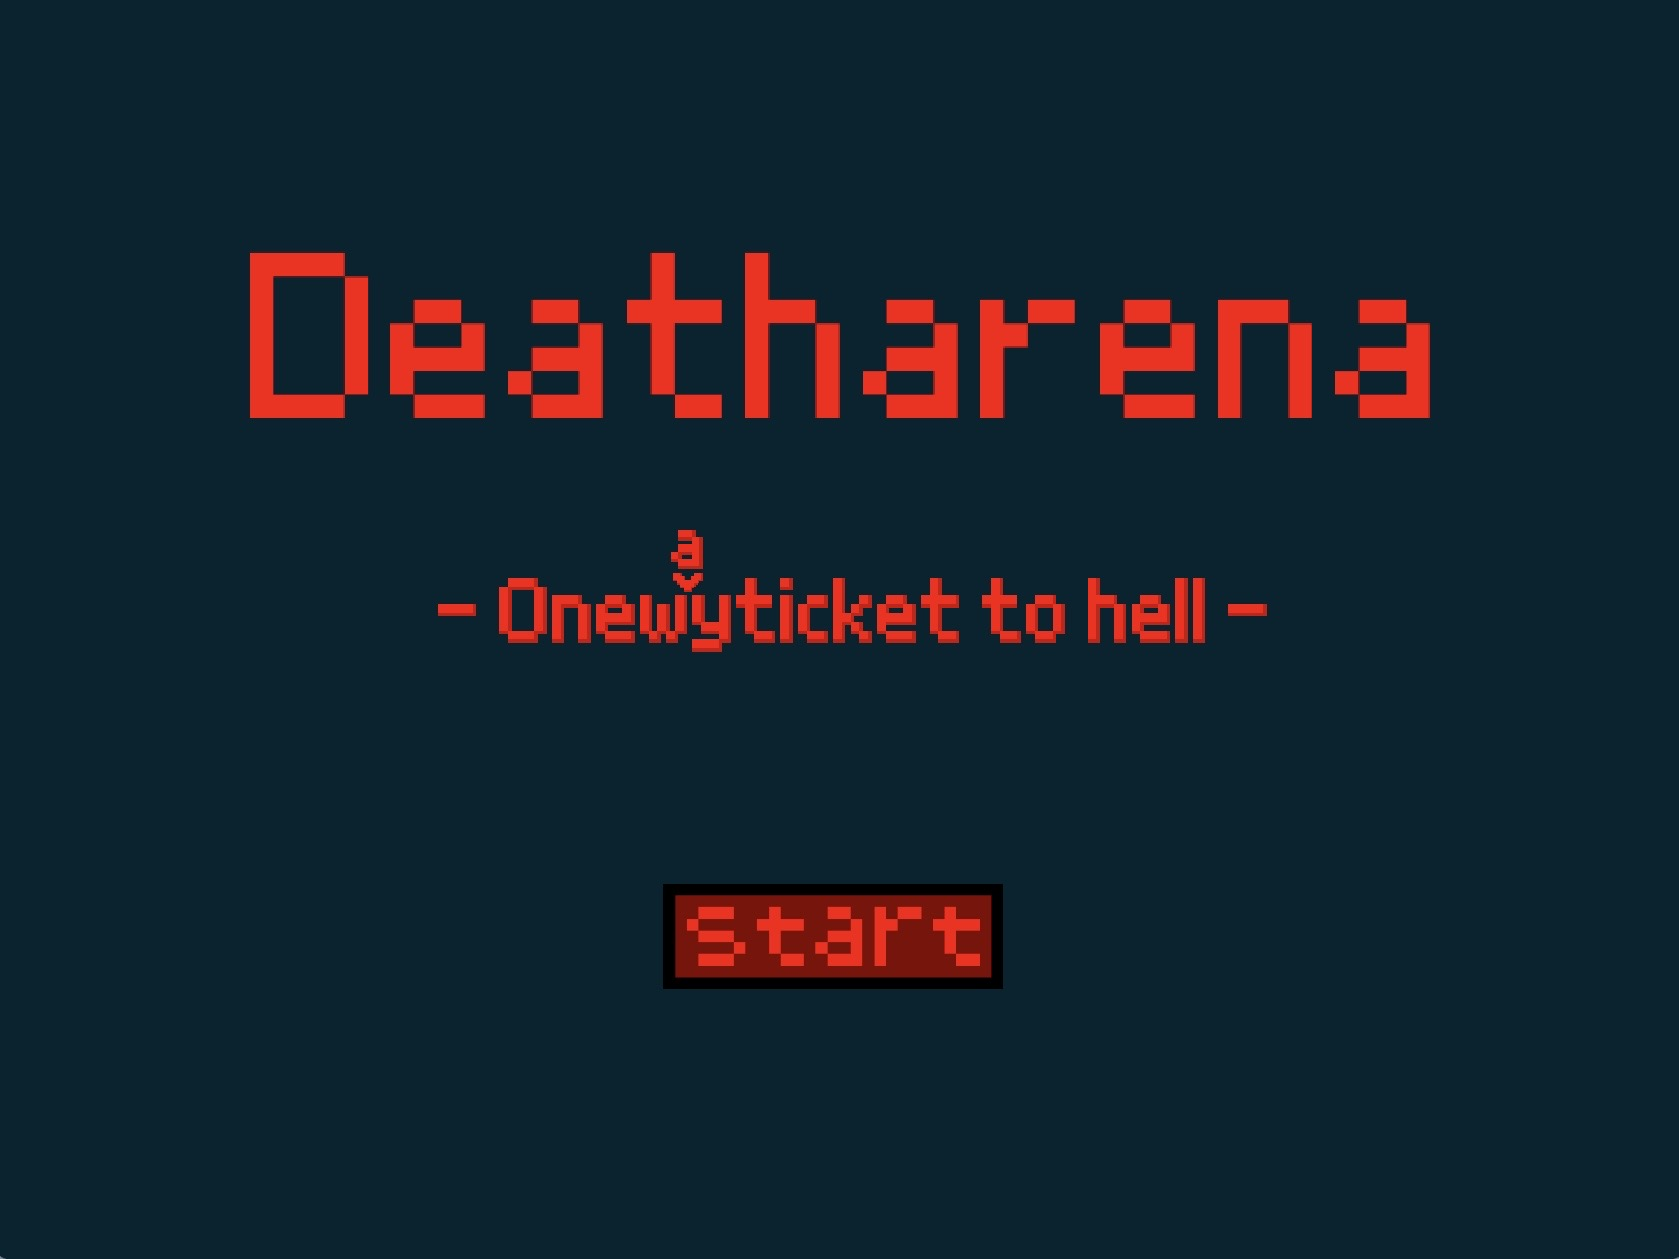
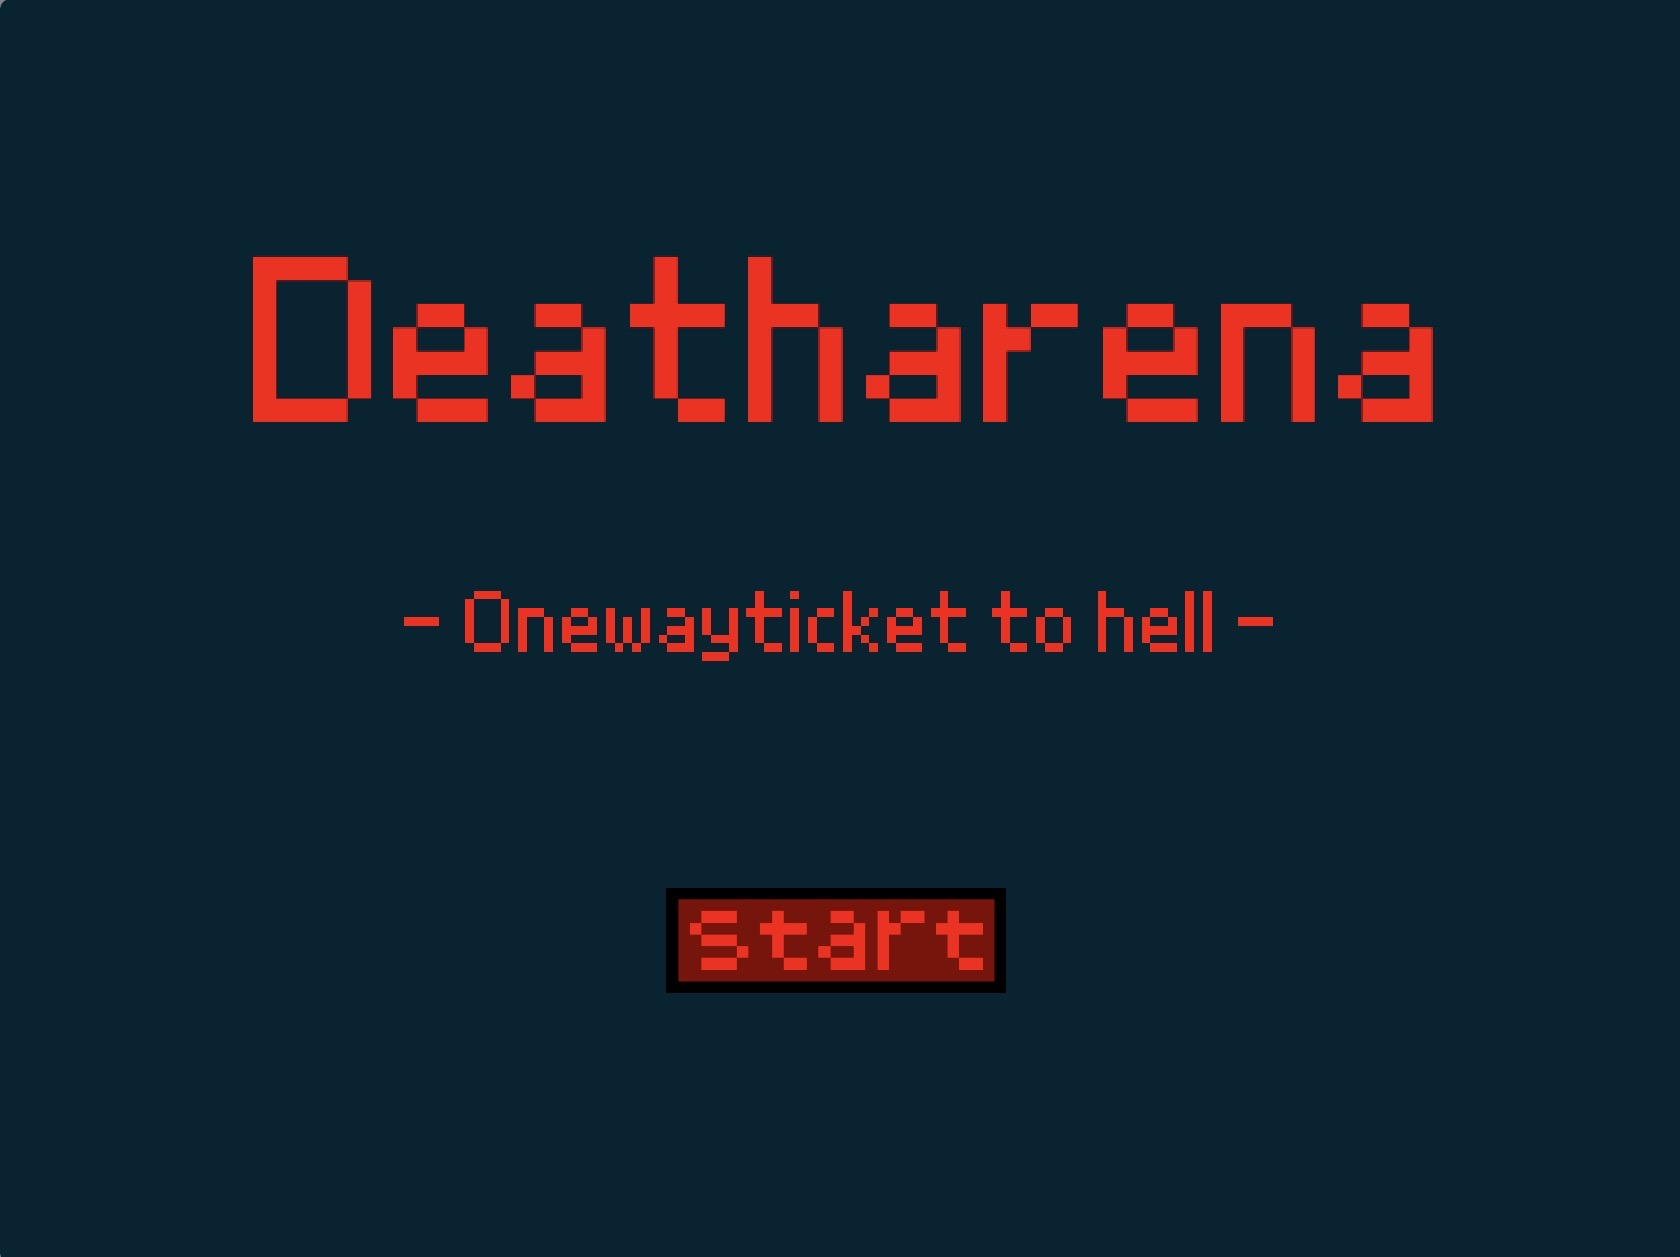
Frist game added and layout plished

Changed region(s): [[0.1549, 0.1862, 0.8672, 0.3413], [0.2478, 0.4033, 0.7743, 0.5274], [0.4026, 0.6826, 0.6194, 0.8067]]

diff --git a/components/hero.tsx b/components/hero.tsx
@@ -4,12 +4,6 @@ import Link from "next/link";
 import { m } from "framer-motion";
 import { staggerContainer, staggerItem } from "@/lib/motion";
 
-const stats = [
-  { icon: "🎮", label: "Games", value: "10+" },
-  { icon: "🌍", label: "Platform", value: "Browser" },
-  { icon: "🎉", label: "Price", value: "Free" },
-] as const;
-
 export function Hero() {
   return (
     <section className="relative isolate overflow-hidden border-b border-border-subtle/40 bg-surface">
@@ -30,36 +24,23 @@ export function Hero() {
         initial="initial"
         animate="animate"
       >
-        <m.span
-          variants={staggerItem}
-          className="mb-8 inline-flex items-center gap-2.5 rounded-full border border-accent/25 bg-accent/10 px-4 py-2 text-xs font-semibold tracking-wide text-violet-300 backdrop-blur-sm"
-        >
-          <span className="relative flex h-2 w-2">
-            <span className="absolute inline-flex h-full w-full animate-ping rounded-full bg-violet-400 opacity-75" />
-            <span className="relative inline-flex h-2 w-2 rounded-full bg-violet-400" />
-          </span>
-          New games dropping soon
-        </m.span>
-
         <m.h1
           variants={staggerItem}
-          className="font-display max-w-4xl text-4xl font-extrabold leading-[1.05] tracking-tight sm:text-6xl lg:text-7xl"
+          className="font-display flex w-full max-w-4xl flex-col items-center gap-2 leading-[1.05] tracking-tight"
         >
-          <span className="bg-gradient-to-b from-white via-zinc-100 to-zinc-500 bg-clip-text text-transparent">
-            Play Amazing
-          </span>
-          <br />
-          <span className="bg-gradient-to-r from-violet-400 via-fuchsia-400 to-amber-300 bg-clip-text text-transparent">
+          <span className="bg-gradient-to-r from-violet-400 via-fuchsia-400 to-amber-300 bg-clip-text text-[clamp(2.5rem,8vw,4.25rem)] font-extrabold text-transparent">
             Holiday Games
+          </span>
+          <span className="bg-gradient-to-b from-white via-zinc-100 to-zinc-500 bg-clip-text text-[clamp(1.35rem,4.65vw,2.5rem)] font-normal text-transparent">
+            Work Hard, Game Hard
           </span>
         </m.h1>
 
         <m.p
           variants={staggerItem}
-          className="mx-auto mt-7 max-w-xl text-lg leading-relaxed text-zinc-400 sm:text-xl sm:leading-relaxed"
+          className="mx-auto mt-7 w-4/5 max-w-[28.8rem] text-lg leading-relaxed text-zinc-400 sm:text-xl sm:leading-relaxed"
         >
-          Hand-crafted browser games built for cozy nights, holiday vibes, and
-          one-more-run fun.
+          Hand-crafted browser games built for fun and to learn the art of coding
         </m.p>
 
         <m.div
@@ -98,28 +79,6 @@ export function Hero() {
               Learn More
             </Link>
           </m.div>
-        </m.div>
-
-        <m.div
-          variants={staggerItem}
-          className="mt-20 grid w-full max-w-lg grid-cols-1 gap-8 border-t border-border-subtle/50 pt-10 sm:grid-cols-3 sm:gap-4"
-        >
-          {stats.map((stat) => (
-            <m.div
-              key={stat.label}
-              className="flex flex-col items-center gap-1.5"
-              whileHover={{ y: -2 }}
-              transition={{ type: "spring", stiffness: 400, damping: 25 }}
-            >
-              <span className="text-xl" aria-hidden>
-                {stat.icon}
-              </span>
-              <span className="font-display text-lg font-bold text-zinc-100">
-                {stat.value}
-              </span>
-              <span className="text-sm text-zinc-500">{stat.label}</span>
-            </m.div>
-          ))}
         </m.div>
       </m.div>
     </section>

diff --git a/components/game-detail.tsx b/components/game-detail.tsx
@@ -5,6 +5,7 @@ import type { Game } from "@/types/game";
 import { staggerContainer, staggerItem } from "@/lib/motion";
 import { cn, formatGameType } from "@/lib/utils";
 import { GameDetailGallery } from "@/components/game-detail-gallery";
+import { GameDetailSectionHeading } from "@/components/game-detail-section-heading";
 import { resolveGameCarouselImages } from "@/lib/game-assets";
 
 interface GameDetailProps {
@@ -40,51 +41,38 @@ export function GameDetail({ game, onPlayNow, canPlay }: GameDetailProps) {
         initial="initial"
         animate="animate"
       >
-        <div className="grid gap-10 lg:grid-cols-5 lg:gap-12">
+        <div className="grid gap-8 lg:grid-cols-5 lg:gap-12">
           <m.div variants={staggerItem} className="lg:col-span-3">
             <GameDetailGallery images={galleryImages} title={game.title} />
           </m.div>
 
           <m.aside
             variants={staggerItem}
-            className="flex flex-col gap-7 lg:col-span-2"
+            className="flex w-full flex-col gap-6 lg:col-span-2"
           >
             {game.status !== "available" && (
               <StatusBadge status={game.status} />
             )}
 
-            <h1 className="font-display text-3xl font-extrabold tracking-tight text-zinc-50 sm:text-4xl lg:text-[2.75rem] lg:leading-tight">
+            <h1 className="font-display text-3xl font-extrabold leading-tight tracking-tight text-zinc-50 sm:text-4xl lg:text-[2.75rem]">
               {game.title}
             </h1>
 
             <SpecsCard game={game} />
 
-            <div className="flex justify-center">
+            <div className="flex w-full justify-center">
               <m.button
                 type="button"
                 disabled={!canPlay}
                 onClick={onPlayNow}
                 whileHover={canPlay ? { scale: 1.02 } : undefined}
                 whileTap={canPlay ? { scale: 0.98 } : undefined}
-                className="inline-flex h-12 w-fit max-w-full items-center justify-center gap-2 rounded-xl bg-accent px-6 text-base font-bold text-white btn-glow disabled:cursor-not-allowed disabled:opacity-50 disabled:shadow-none sm:h-14 sm:gap-3 sm:px-8 sm:text-lg sm:min-w-[220px]"
+                className="mx-auto inline-flex h-12 w-full max-w-xs items-center justify-center gap-2 rounded-xl bg-accent px-6 text-base font-bold text-white btn-glow disabled:cursor-not-allowed disabled:opacity-50 disabled:shadow-none sm:h-14 sm:w-auto sm:max-w-none sm:min-w-[220px] sm:gap-3 sm:px-8 sm:text-lg"
               >
                 <PlayIcon />
                 {playLabel}
               </m.button>
             </div>
-
-            {game.tags.length > 0 && (
-              <div className="flex flex-wrap gap-2">
-                {game.tags.map((tag) => (
-                  <span
-                    key={tag}
-                    className="rounded-full border border-border-subtle/80 bg-surface-elevated/60 px-3 py-1 text-xs font-medium text-zinc-400"
-                  >
-                    {tag}
-                  </span>
-                ))}
-              </div>
-            )}
           </m.aside>
         </div>
 
@@ -92,9 +80,7 @@ export function GameDetail({ game, onPlayNow, canPlay }: GameDetailProps) {
           variants={staggerItem}
           className="mt-10 rounded-2xl border border-border-subtle/80 bg-surface/50 p-7 backdrop-blur-sm sm:mt-12 sm:p-9 lg:mt-14"
         >
-          <h2 className="mb-5 font-display text-sm font-semibold uppercase tracking-[0.2em] text-violet-400">
-            About this game
-          </h2>
+          <GameDetailSectionHeading>About this game</GameDetailSectionHeading>
           <p className="text-base leading-[1.75] text-zinc-300 sm:text-lg sm:leading-[1.8]">
             {game.longDescription}
           </p>
@@ -107,7 +93,9 @@ export function GameDetail({ game, onPlayNow, canPlay }: GameDetailProps) {
 function SpecsCard({ game }: { game: Game }) {
   const specs = [
     { label: "Genre", value: game.genre },
+    { label: "Subgenre", value: game.subgenre },
     { label: "Players", value: game.players },
+    { label: "Developer", value: game.developer },
     { label: "Game type", value: formatGameType(game.gameType) },
   ];
 
@@ -122,7 +110,7 @@ function SpecsCard({ game }: { game: Game }) {
           <dd
             className={cn(
               "text-right text-sm font-semibold text-zinc-100",
-              label === "Genre" && "capitalize",
+              (label === "Genre" || label === "Subgenre") && "capitalize",
             )}
           >
             {value}

diff --git a/components/game-detail-section-heading.tsx b/components/game-detail-section-heading.tsx
@@ -1,0 +1,23 @@
+import { cn } from "@/lib/utils";
+
+interface GameDetailSectionHeadingProps {
+  children: React.ReactNode;
+  className?: string;
+}
+
+/** Eyebrow heading shared by detail + play sections (spacing matches on all breakpoints). */
+export function GameDetailSectionHeading({
+  children,
+  className,
+}: GameDetailSectionHeadingProps) {
+  return (
+    <h2
+      className={cn(
+        "mb-5 font-display text-sm font-semibold uppercase leading-snug tracking-[0.2em] text-violet-400",
+        className,
+      )}
+    >
+      {children}
+    </h2>
+  );
+}

diff --git a/components/footer.tsx b/components/footer.tsx
@@ -20,14 +20,9 @@ export function Footer() {
       transition={{ duration: 0.5, ease: easeOutExpo }}
     >
       <div className="mx-auto flex max-w-6xl flex-col items-center gap-8 px-4 py-12 sm:flex-row sm:justify-between sm:px-6 sm:py-14">
-        <div className="flex items-center gap-2.5">
-          <span className="text-xl" aria-hidden>
-            🎄
-          </span>
-          <span className="font-display bg-gradient-to-r from-violet-400 to-fuchsia-400 bg-clip-text text-sm font-bold tracking-tight text-transparent">
-            Holiday Games
-          </span>
-        </div>
+        <span className="font-display bg-gradient-to-r from-violet-400 to-fuchsia-400 bg-clip-text text-sm font-bold tracking-tight text-transparent">
+          Holiday Games
+        </span>
 
         <nav className="flex flex-wrap items-center justify-center gap-6 text-sm">
           {footerLinks.map(({ label, href }) => (

diff --git a/components/game-player.tsx b/components/game-player.tsx
@@ -239,7 +239,7 @@ function IdleOverlay({
   onPlay: () => void;
 }) {
   return (
-    <div className="absolute inset-0 flex flex-col items-center justify-center gap-5 bg-gradient-to-br from-surface via-surface-elevated to-violet-950/30 p-6 text-center">
+    <div className="absolute inset-0 flex w-full flex-col items-center justify-center gap-4 bg-gradient-to-br from-surface via-surface-elevated to-violet-950/30 p-6 text-center">
       <div
         aria-hidden
         className="pointer-events-none absolute inset-0 bg-[linear-gradient(rgba(255,255,255,.03)_1px,transparent_1px),linear-gradient(90deg,rgba(255,255,255,.03)_1px,transparent_1px)] bg-[size:48px_48px]"
@@ -253,16 +253,18 @@ function IdleOverlay({
         </>
       ) : (
         <>
-          <p className="relative text-sm font-medium text-zinc-500">
+          <p className="relative text-sm font-medium leading-snug text-zinc-500">
             Ready to play
           </p>
-          <p className="relative text-xl font-bold text-zinc-100">{title}</p>
+          <p className="relative text-xl font-bold leading-tight text-zinc-100">
+            {title}
+          </p>
           <m.button
             type="button"
             onClick={onPlay}
             whileHover={{ scale: 1.03 }}
             whileTap={{ scale: 0.97 }}
-            className="relative inline-flex h-14 items-center justify-center gap-3 rounded-xl bg-accent px-10 text-lg font-bold text-white btn-glow"
+            className="relative mx-auto inline-flex h-14 w-full max-w-xs items-center justify-center gap-3 rounded-xl bg-accent px-10 text-lg font-bold text-white btn-glow sm:w-auto sm:max-w-none"
           >
             <PlayIcon />
             Play Now

diff --git a/components/header.tsx b/components/header.tsx
@@ -13,15 +13,7 @@ export function Header() {
       transition={{ duration: 0.45, ease: [0.22, 1, 0.36, 1] }}
     >
       <div className="mx-auto flex h-16 max-w-6xl items-center justify-between gap-4 px-4 sm:h-[4.25rem] sm:px-6">
-        <Link href="/" className="group flex items-center gap-2.5">
-          <m.span
-            className="text-2xl"
-            aria-hidden
-            whileHover={{ rotate: [-3, 3, 0], scale: 1.1 }}
-            transition={{ duration: 0.4 }}
-          >
-            🎄
-          </m.span>
+        <Link href="/" className="group flex items-center">
           <span className="font-display bg-gradient-to-r from-violet-400 to-fuchsia-400 bg-clip-text text-lg font-bold tracking-tight text-transparent transition-opacity group-hover:opacity-90">
             Holiday Games
           </span>

diff --git a/components/game-card.tsx b/components/game-card.tsx
@@ -77,11 +77,16 @@ export function GameCard({ game, index = 0 }: GameCardProps) {
       </div>
 
       <div className="flex flex-1 flex-col gap-4 p-5 sm:p-6">
-        <div className="flex items-center gap-2 text-xs">
+        <div className="flex flex-wrap items-center gap-2 text-xs">
           <span className="rounded-full border border-accent/20 bg-accent/10 px-2.5 py-0.5 font-semibold capitalize text-violet-300">
             {game.genre}
           </span>
-          <span className="text-zinc-500">{game.players}</span>
+          <span className="rounded-full border border-border-subtle/80 bg-surface-elevated/60 px-2.5 py-0.5 font-medium capitalize text-zinc-400">
+            {game.subgenre}
+          </span>
+          <span className="rounded-full border border-border-subtle/80 bg-surface-elevated/60 px-2.5 py-0.5 font-medium text-zinc-400">
+            {game.players}
+          </span>
         </div>
 
         <h3 className="font-display text-lg font-bold leading-snug text-zinc-100 transition-colors duration-200 group-hover:text-white sm:text-xl">

diff --git a/components/game-play-section.tsx b/components/game-play-section.tsx
@@ -2,6 +2,7 @@
 
 import { m } from "framer-motion";
 import type { Game } from "@/types/game";
+import { GameDetailSectionHeading } from "@/components/game-detail-section-heading";
 import { easeOutExpo } from "@/lib/motion";
 
 interface GamePlaySectionProps {
@@ -22,9 +23,7 @@ export function GamePlaySection({ game, children }: GamePlaySectionProps) {
         viewport={{ once: true, margin: "-60px" }}
         transition={{ duration: 0.55, ease: easeOutExpo }}
       >
-        <h2 className="mb-8 font-display text-sm font-semibold uppercase tracking-[0.2em] text-violet-400">
-          Play {game.title}
-        </h2>
+        <GameDetailSectionHeading>Play {game.title}</GameDetailSectionHeading>
         {children}
       </m.div>
     </section>

diff --git a/data/games/index.ts b/data/games/index.ts
@@ -12,6 +12,7 @@ const gameEntries: (GameRegistryEntry | Game)[] = [
     genre: "action",
     subgenre: "endless-runner",
     players: "1 player",
+    developer: "Holiday Games",
     description:
       "Race through a winter wonderland dodging obstacles and collecting presents.",
     longDescription:
@@ -43,6 +44,7 @@ const gameEntries: (GameRegistryEntry | Game)[] = [
     genre: "arcade",
     subgenre: "clicker",
     players: "1 player",
+    developer: "Holiday Games",
     description:
       "Smash as many spooky pumpkins as you can before time runs out!",
     longDescription:
@@ -67,6 +69,7 @@ const gameEntries: (GameRegistryEntry | Game)[] = [
     genre: "strategy",
     subgenre: "tower-defense",
     players: "1-2 players",
+    developer: "Holiday Games",
     description:
       "Command an army of elves to defend Santa's workshop from waves of mischievous goblins.",
     longDescription:

diff --git a/app/layout.tsx b/app/layout.tsx
@@ -33,6 +33,7 @@ export default function RootLayout({
   return (
     <html
       lang="en"
+      data-scroll-behavior="smooth"
       className={`${geistSans.variable} ${geistMono.variable} h-full antialiased`}
     >
       <body className="flex min-h-full flex-col bg-background font-sans text-foreground">

diff --git a/lib/game-json.ts b/lib/game-json.ts
@@ -56,6 +56,7 @@ export function mergeGameFromJson(
     genre: json.genre,
     subgenre: json.subgenre,
     players: json.players,
+    developer: json.developer,
     description: json.description,
     longDescription: json.longDescription,
     gameType: json.gameType,

diff --git a/types/game-json.ts b/types/game-json.ts
@@ -9,6 +9,7 @@ export interface GameJsonFile {
   genre: Genre;
   subgenre: string;
   players: string;
+  developer: string;
   description: string;
   longDescription: string;
   gameType: GameType;